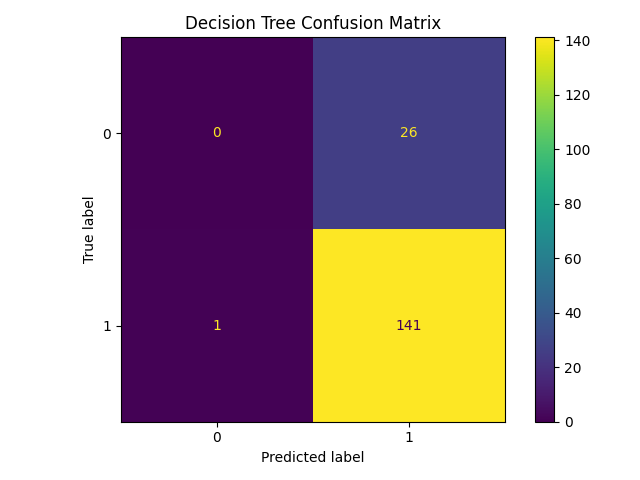
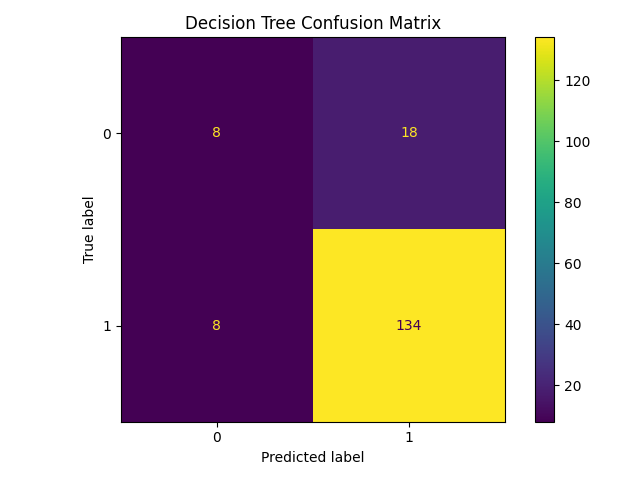
Add first-two-piece pair feature to decision tree and report CV accuracy

diff --git a/code/model.py b/code/model.py
@@ -1,7 +1,7 @@
 import os
 import pandas as pd
 import matplotlib.pyplot as plt
-from sklearn.model_selection import train_test_split
+from sklearn.model_selection import train_test_split, cross_val_score, StratifiedKFold
 from sklearn.tree import DecisionTreeClassifier
 from sklearn.metrics import accuracy_score, ConfusionMatrixDisplay
 
@@ -10,40 +10,46 @@ os.makedirs("docs/tables", exist_ok=True)
 
 df = pd.read_csv("data/tetris_perfect_clear_sequences.csv")
 
-# Preparation: one-hot encode the piece columns so the tree can use them
-X = pd.get_dummies(df[["piece_1", "piece_2", "piece_3", "piece_4"]])
+# Feature engineering: unordered pair of the first two pieces (e.g. "OZ").
+# Motivated by the descriptive results: success depends on specific piece pairs.
+df["first_two"] = df[["piece_1", "piece_2"]].apply(lambda r: "".join(sorted(r)), axis=1)
+
+# One-hot encode piece positions plus the pair feature
+X = pd.get_dummies(df[["piece_1", "piece_2", "piece_3", "piece_4", "first_two"]])
 y = df["success"]
 
-# 80/20 split; stratify keeps the success/failure ratio the same in both sets
+# 80/20 stratified split keeps the success ratio the same in train and test
 X_train, X_test, y_train, y_test = train_test_split(
     X, y, test_size=0.2, random_state=42, stratify=y
 )
 
-# Train the decision tree (max_depth limits overfitting)
+# max_depth=5 chosen from cross-validation (code/tune_depth.py)
 model = DecisionTreeClassifier(max_depth=5, random_state=42)
 model.fit(X_train, y_train)
 predictions = model.predict(X_test)
 
-print(f"Train accuracy: {model.score(X_train, y_train):.4f}")
-
-# Performance metric: accuracy, compared with a majority-class baseline
 accuracy = accuracy_score(y_test, predictions)
 baseline = y_test.value_counts(normalize=True).max()
+print(f"Train accuracy: {model.score(X_train, y_train):.4f}")
 print(f"Decision tree accuracy: {accuracy:.4f}")
 print(f"Majority-class baseline: {baseline:.4f}")
 
-pd.DataFrame({"metric": ["tree_accuracy", "majority_baseline"],
-              "value": [round(accuracy, 4), round(baseline, 4)]}) \
-  .to_csv("docs/tables/model_metrics.csv", index=False)
+# Cross-validated accuracy is a steadier estimate than one small test split
+cv = StratifiedKFold(n_splits=5, shuffle=True, random_state=42)
+cv_acc = cross_val_score(DecisionTreeClassifier(max_depth=5, random_state=42), X, y, cv=cv).mean()
+print(f"5-fold cross-validated accuracy: {cv_acc:.4f}")
 
-# Confusion matrix figure
+pd.DataFrame({
+    "metric": ["tree_accuracy", "majority_baseline", "cv_accuracy"],
+    "value": [round(accuracy, 4), round(baseline, 4), round(cv_acc, 4)],
+}).to_csv("docs/tables/model_metrics.csv", index=False)
+
 ConfusionMatrixDisplay.from_predictions(y_test, predictions)
 plt.title("Decision Tree Confusion Matrix")
 plt.tight_layout()
 plt.savefig("docs/figures/confusion_matrix.png")
 plt.close()
 
-# Feature importance table and figure
 importance = pd.Series(model.feature_importances_, index=X.columns).sort_values(ascending=False)
 importance.to_csv("docs/tables/feature_importance.csv", header=["importance"])
 
